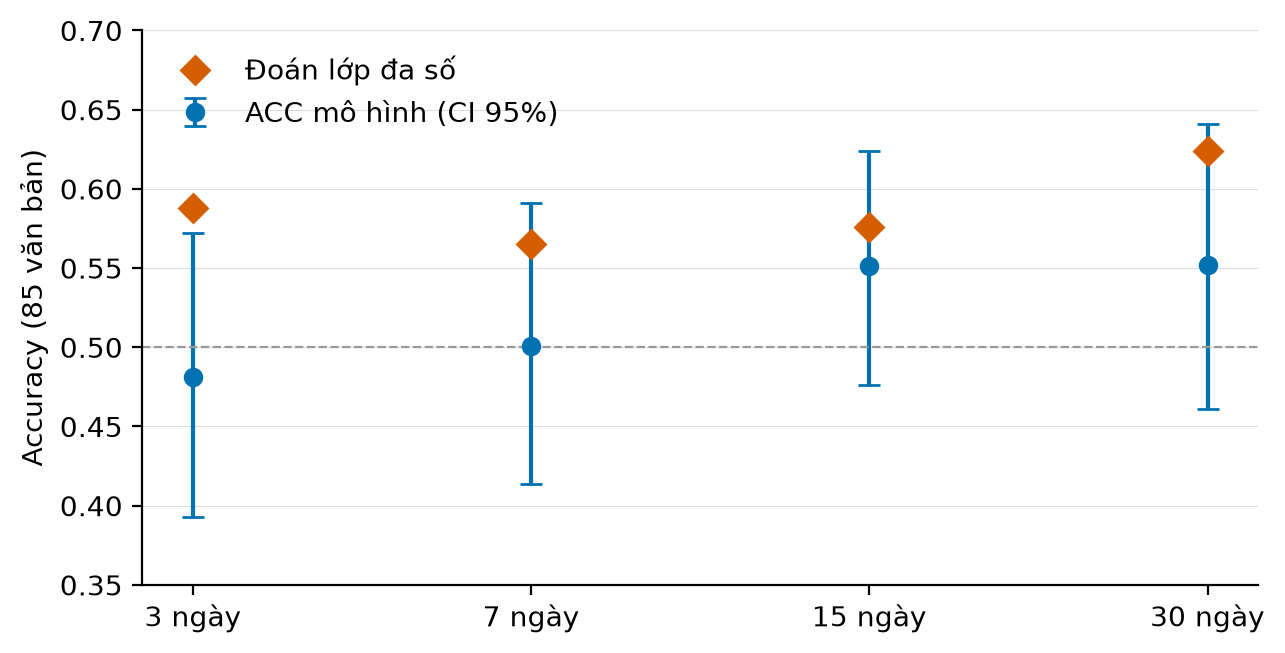
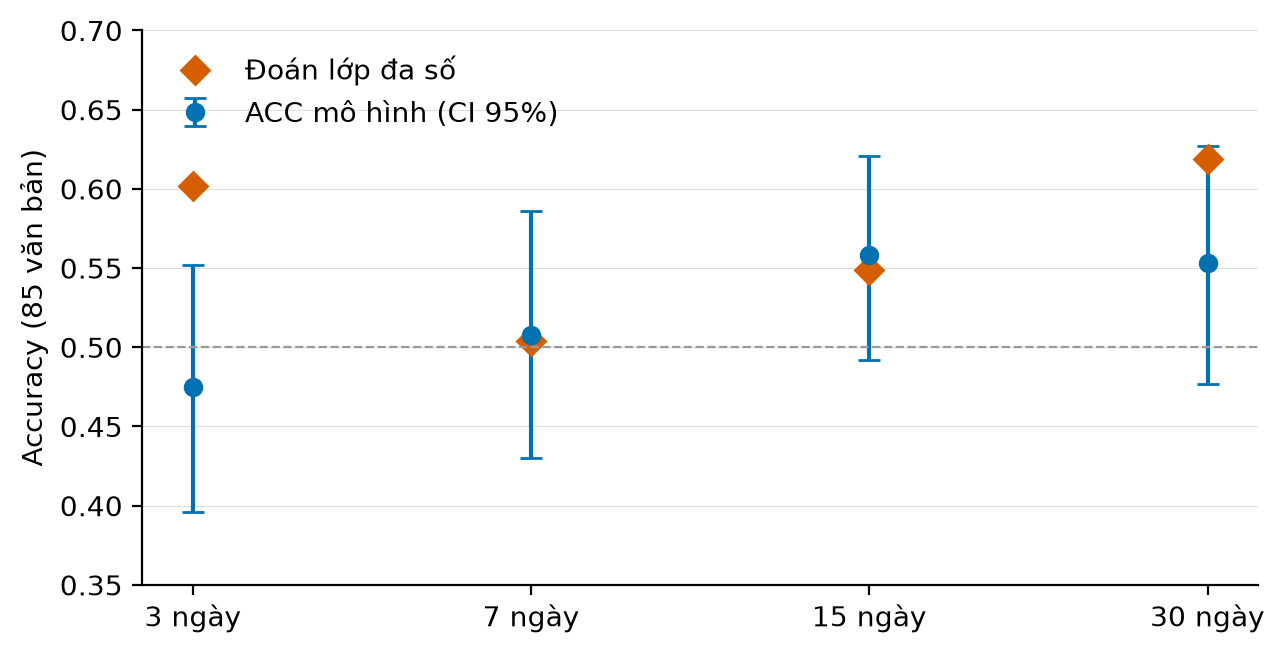
Ve lai hinh theo log 113 van ban, plot_figures doc duoc log UTF-16

diff --git a/tools/plot_figures.py b/tools/plot_figures.py
@@ -16,7 +16,9 @@ plt.rcParams.update({"font.family": "DejaVu Sans", "font.size": 10,
 C = ["#0072B2", "#E69F00", "#009E73", "#D55E00", "#7F7F7F"]
 
 # ---------- doc log ----------
-txt = LOG.read_bytes().decode("utf-8", errors="ignore")
+raw = LOG.read_bytes()
+# PowerShell 5 ghi file bang ">" o dang UTF-16; xu ly ca hai
+txt = raw.decode("utf-16") if raw[:2] in (b"\xff\xfe", b"\xfe\xff") else raw.decode("utf-8", errors="ignore")
 blocks = re.split(r"KY HAN (\d+) NGAY", txt)
 H = {}
 for i in range(1, len(blocks), 2):
